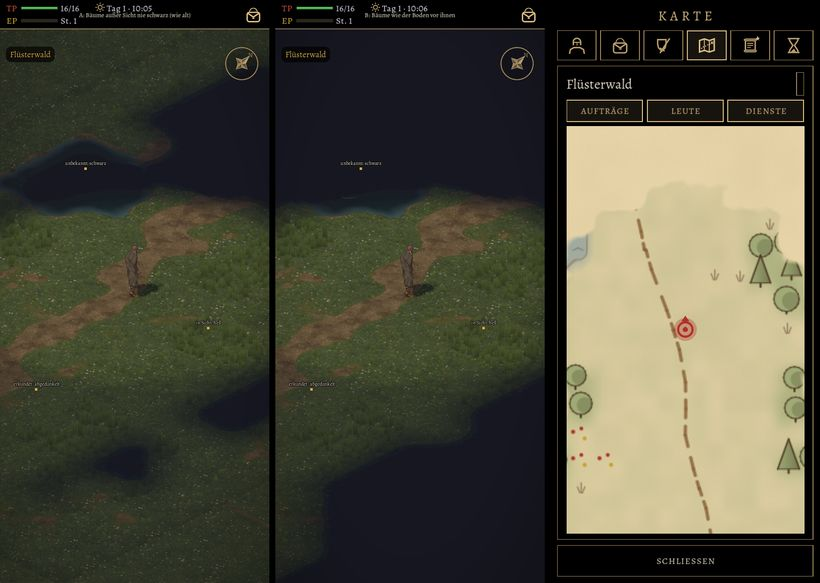
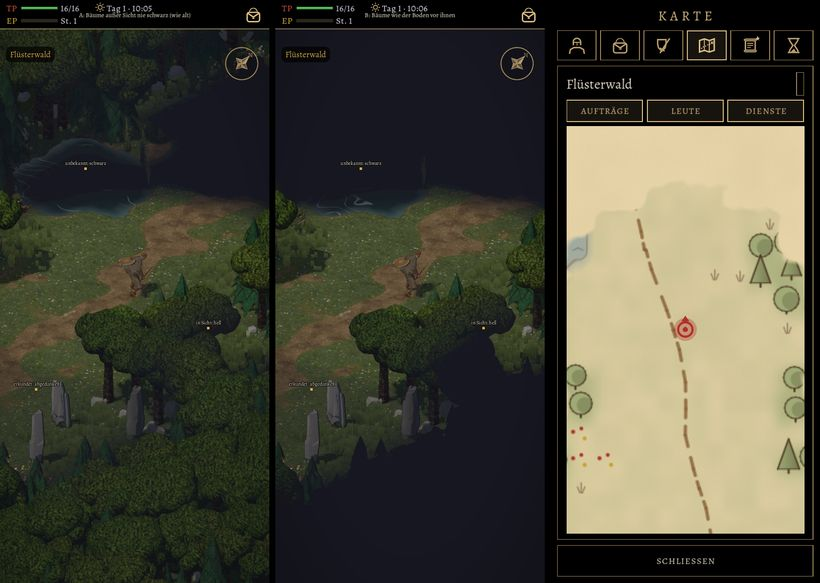
Tom: 505 Vorlage Lauf 2 (mit Bäumen)
Claude-Session: https://claude.ai/code/session_01Hmoj7AAT6tkcUPJeKgMwXT

diff --git a/docs/chefsache/ansehen/505-nebel-stufen.md b/docs/chefsache/ansehen/505-nebel-stufen.md
@@ -1,14 +1,12 @@
-# 505 · Nebel im Wald: drei Stufen beschriftet, Bäume A oder B · Team Tom · 03.11., 21:2x
-
-[Bild von 03.11., 21:28](https://github.com/tramour-cmyk/androidapp_rpg_bornim/blob/bilder/2026-11/03-2124-505-Tom.png) (eingetragen von meldung.sh, Tom)
+# 505 · Nebel im Wald: drei Stufen beschriftet, Bäume A oder B · Team Tom · 03.11., 22:3x
 
 W Welt
-Kurz: Lauf nach deiner Freigabe (20:20), Stand wie gebaut 17:00; Bilder: A, B, Karte im Menü
-Geprüft an: https://github.com/tramour-cmyk/androidapp_rpg_bornim/actions/runs/41704330009 (Commit 67d99ab34, Tests Nebel und Kartennebel ohne Fehler)
+Kurz: Lauf 2 nach deiner Freigabe (20:20), jetzt mit Bäumen (Fehler 518 behoben); Bilder: A, B, Karte im Menü. Das Bild von 21:24 ist überholt (ohne Bäume).
+Geprüft an: https://github.com/tramour-cmyk/androidapp_rpg_bornim/actions/runs/41715601497 (Commit d9d8dc74d, Tests Nebel und Kartennebel ohne Fehler)
 
 ![Links A (Bäume wie alt), Mitte B (Bäume wie der Boden), rechts die Karte im Menü](../bilder/505-stufen.jpg)
 
-Großbild: Telegram 03.11. 21:2x
+Großbild: Telegram 03.11. 22:3x
 
 **Wo:** Der Held ist vom Dorf nach Norden in den Flüsterwald gegangen, Kachel für Kachel, und steht vor Garricks Lichtung; der Teich liegt oben links von ihm. Bild 3 zeigt dieselbe Stelle auf der Karte im Menü (gestrichelter Weg, roter Punkt = Held).
 
@@ -17,12 +15,7 @@ Großbild: Telegram 03.11. 21:2x
 - **B:** Bäume übernehmen die Stufe des Bodens vor ihnen; der Wald um den nie gesehenen Teich ist dann schwarz.
 - **Teich:** Der Teich war auf dem Weg nie in Sicht, darum ist er schwarz. Das ist kein Zeichenfehler; der halbe Teich vom letzten Mal war der Rand der Sicht.
 
-**Prüfer (03.11., 21:28, nach dem Versand, gemessen):** Überschrift und alle drei Punkte da, jeder auf passender Fläche; Held ganz und hell, rundum frei.
-- In A und B sind keine Bäume zu erkennen, nur Gras; ob A Bäume gedämpft zeigt, ist an diesem Bild nicht prüfbar. Ursache stellt Tom nach, bevor etwas gebaut wird.
-- „Erkundet“ ist nur ein weicher Verlauf, keine eigene Fläche mit klarer Grenze; die Schrift ist klein.
-- A: schwarze Flecken mitten im Gras; B: etwa 60 % des Bilds schwarz, der Rand leicht treppig mit türkisem Saum.
-- Teich: in A innen schwarz, blauer Uferrand sichtbar; in B nur ein blauer Streifen am unteren Ufer.
-- Karte im Menü: außer dem Weg auch Bäume, Wasser, Blumen eingezeichnet, nur oben leer; oben rechts ein leeres schmales Rechteck.
+**Prüfer:** folgt nach dem Versand.
 
 **Stärkstes Gegenargument:** B ist ehrlicher („wenn ich es nicht sehe, dunkel“), aber der Wald zerfällt in schwarze Löcher, und man erkennt seine Form nicht mehr; A behält die Form, verrät aber Bäume, die der Held nie gesehen hat.
 
